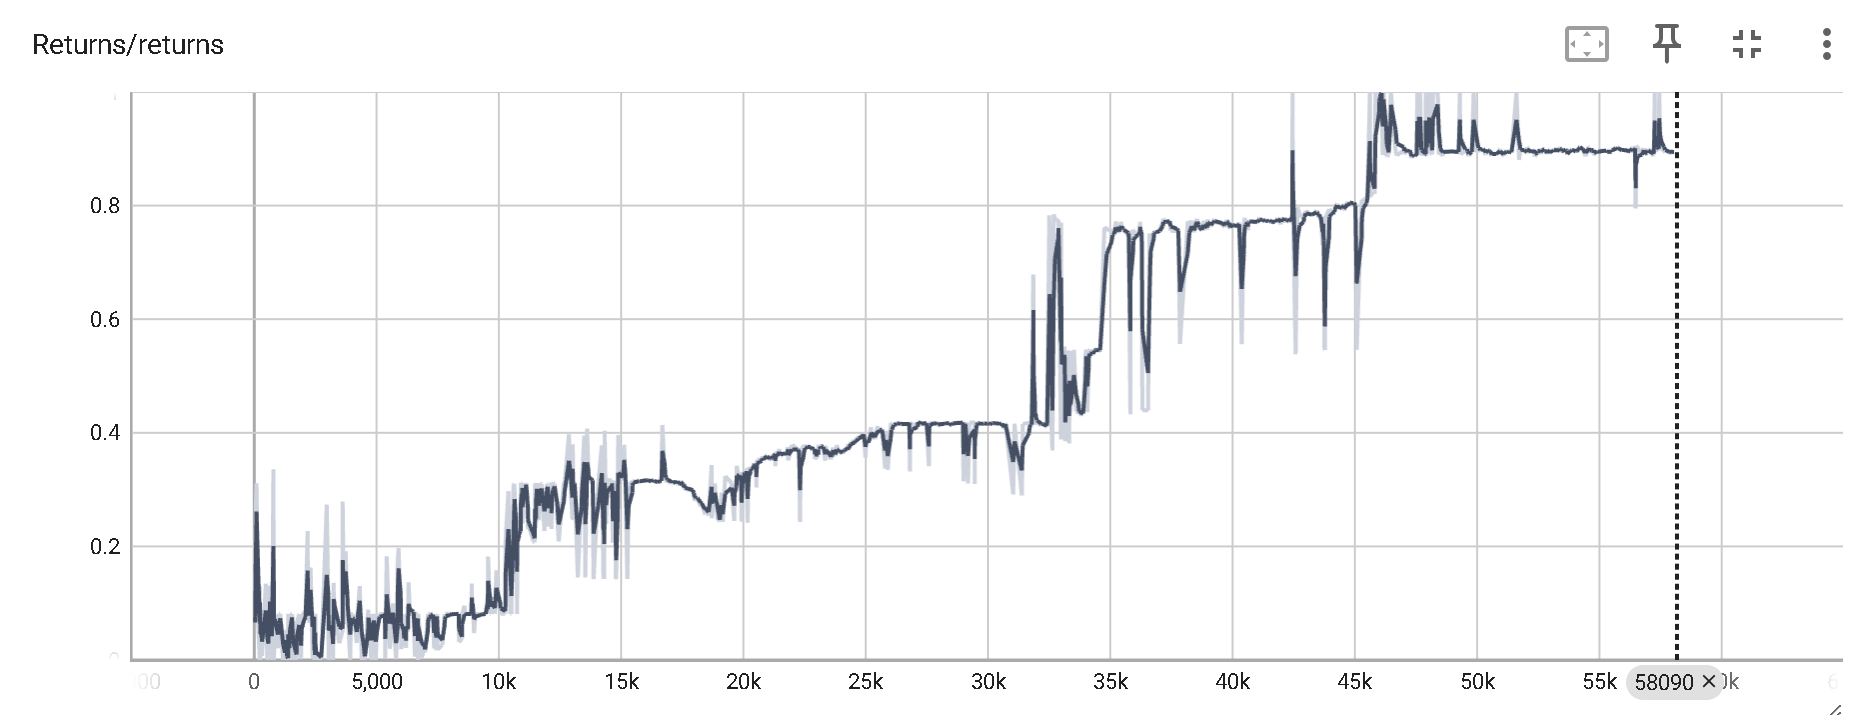
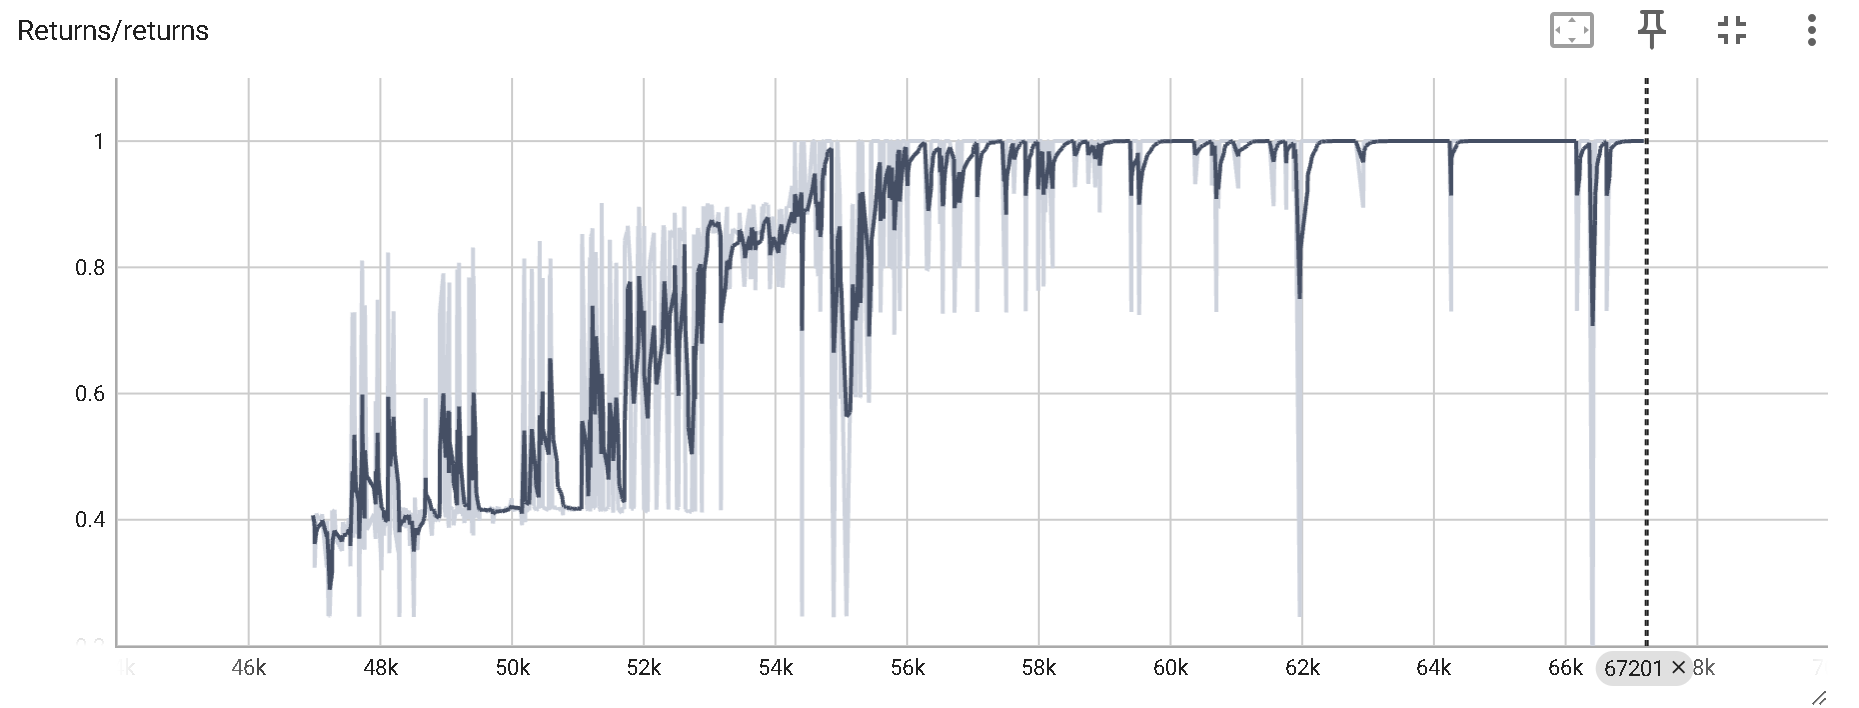
Update performance figure 5

diff --git a/MP-DQN-master/run_platform_pdqn.py b/MP-DQN-master/run_platform_pdqn.py
@@ -70,7 +70,6 @@ def evaluate(env, agent, episodes=1000):
 @click.option('--layers', default='[32,32]', help='Duplicate action-parameter inputs.', cls=ClickPythonLiteralOption) # HH: [128,]
 @click.option('--save-freq', default=20000, help='How often to save models (0 = never).', type=int)
 @click.option('--save-dir', default="results/platform", help='Output directory.', type=str)
-@click.option('--evaluation_mode', default=False, help='Directly load the trained models for evaluation', type=bool)
 @click.option('--render-freq', default=50000, help='How often to render / save frames of an episode.', type=int)
 @click.option('--save-frames', default=True, help="Save render frames from the environment. Incompatible with visualise.", type=bool)
 @click.option('--visualise', default=False, help="Render game states. Incompatible with save-frames.", type=bool)
@@ -87,13 +86,15 @@ def evaluate(env, agent, episodes=1000):
 @click.option('--noisy_network_noise_decay', default=False, help="noise linear decay", type=bool) # seemingly only degrade the performance
 @click.option('--noisy_net_noise_initial_std', default=1, help="noisy network noise initial std", type=float)
 @click.option('--noisy_net_noise_final_std', default=0.001, help="noisy network noise final std", type=float)
-@click.option('--noisy_net_noise_decay_step', default=2, help="noisy network noise std linear decay step", type=float)
+@click.option('--noisy_net_noise_decay_step', default=1, help="noisy network noise std linear decay step", type=float)
 @click.option('--iqn', default=True, help="implicit quantile network", type=bool)
 @click.option('--iqn_embedding_size', default=64, help="IQN embedding size for tau and (s,a)", type=int)
 @click.option('--iqn_quantile_num', default=8, help="IQN quantile number", type=int)
 @click.option('--iqn_num_cosines', default=64, help="IQN cosine number", type=int)
 @click.option('--iqn_embedding_layers', default='[32]', help='IQN embedding network', cls=ClickPythonLiteralOption)
 @click.option('--iqn_quantile_layers', default='[32,32]', help='IQN quantile network', cls=ClickPythonLiteralOption)
+@click.option('--evaluation_mode', default=True, help='Directly load the trained models for evaluation', type=bool)
+@click.option('--load_model_idx', default=60000, help='load the i-th modelUpdate for evaluation', type=int)
 def run(seed, episodes, evaluation_episodes, batch_size, gamma, inverting_gradients, initial_memory_threshold,
         replay_memory_size, epsilon_steps, tau_actor, tau_actor_param, use_ornstein_noise, learning_rate_actor,
         learning_rate_actor_param, epsilon_final, zero_index_gradients, initialise_params, scale_actions,
@@ -101,7 +102,8 @@ def run(seed, episodes, evaluation_episodes, batch_size, gamma, inverting_gradie
         save_freq, save_dir, save_frames, visualise, action_input_layer, title, train_interval, ddqn, delayed_policy_update,
         td3_target_policy_smoothing, td3_policy_noise_std, td3_policy_noise_clamp, per, per_no_is, noisy_network,
         noisy_network_noise_decay, noisy_net_noise_initial_std, noisy_net_noise_final_std, noisy_net_noise_decay_step,
-        iqn, iqn_embedding_size, iqn_quantile_num, iqn_num_cosines, iqn_embedding_layers, iqn_quantile_layers, evaluation_mode):
+        iqn, iqn_embedding_size, iqn_quantile_num, iqn_num_cosines, iqn_embedding_layers, iqn_quantile_layers,
+        evaluation_mode, load_model_idx):
 
     writer = SummaryWriter('../runs/')
 
@@ -282,7 +284,7 @@ def run(seed, episodes, evaluation_episodes, batch_size, gamma, inverting_gradie
     #-------------------start evaluation------------------
     if evaluation_episodes:
         # load models
-        agent.load_models(os.path.join(save_dir, str(i)))
+        agent.load_models(os.path.join(save_dir, str(load_model_idx)))
 
     if evaluation_episodes > 0:
         print("Evaluating agent over {} episodes".format(evaluation_episodes))
